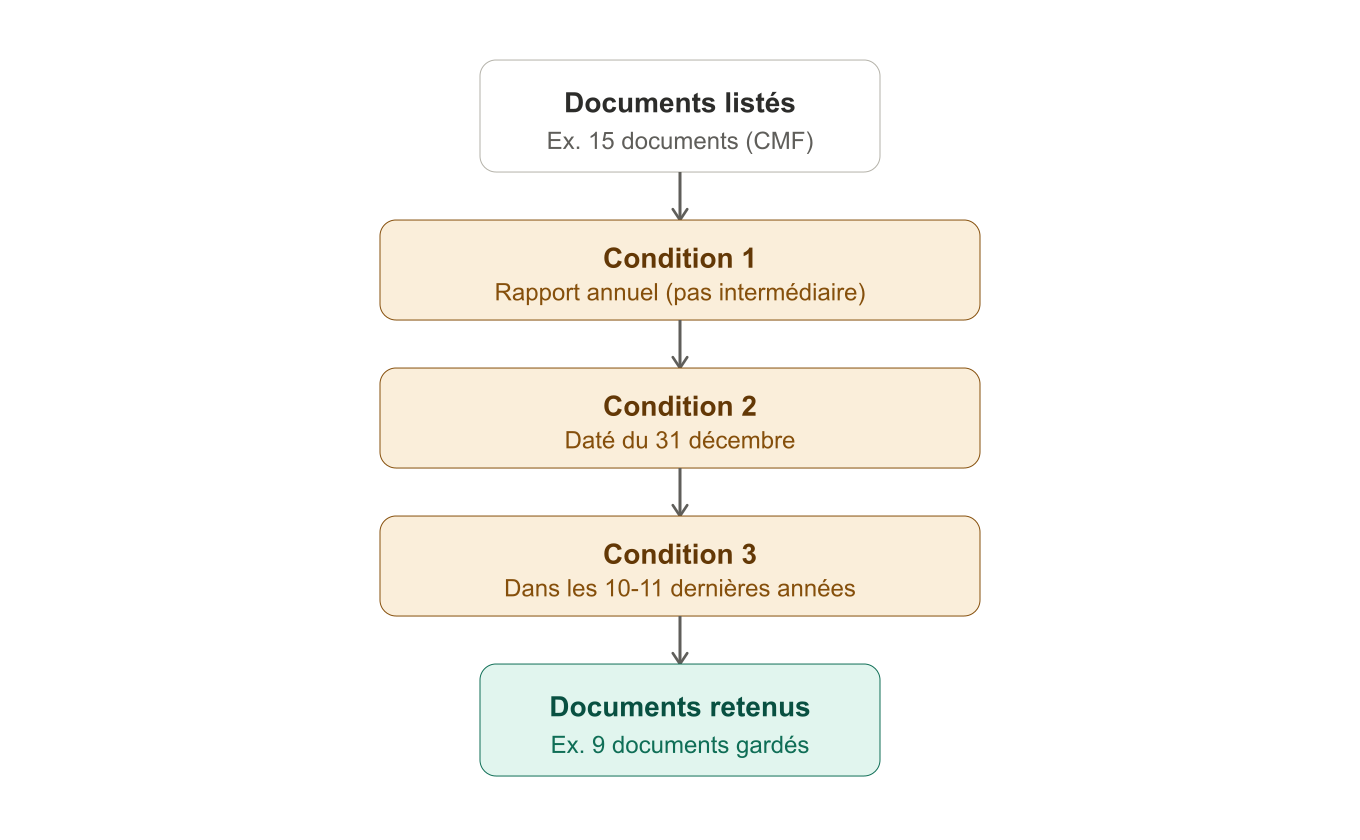
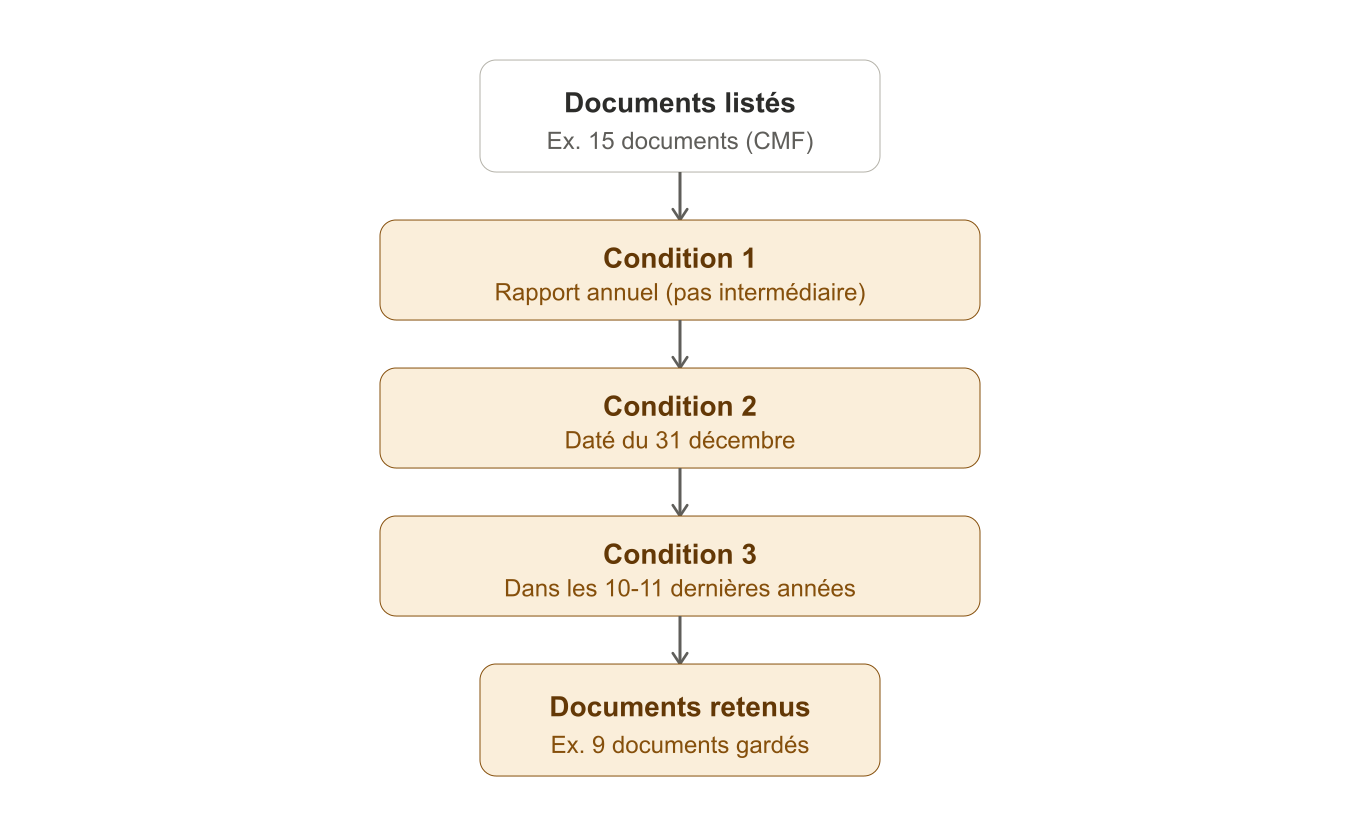
Refonte visuelle des Parties 1-2 : schemas partout, zooms mis en valeur
- Structure des dossiers et flux de donnee (Partie 1) : de la liste/texte
  vers des schemas colores
- Deroule CMF (Partie 2) : de la liste a puces vers un schema vertical
  en 7 etapes, avec les etapes Filtrage et Deduplication mises en couleur
  (ambre / sarcelle) pour annoncer visuellement leur zoom
- Ajoute des bannieres de zoom colorees (meme couleur que l'etape du
  schema principal) au-dessus des schemas de detail Filtrage et
  Deduplication, pour clarifier que ce sont des zooms et non des
  schemas independants empiles
- Nouveau schema pour l'exemple de deduplication (parallele au schema
  de filtrage deja existant)
- "A savoir par source" et "Reconnaissance des societes" : des puces
  noires vers des schemas colores
- Captures de code : ajoute la reference exacte fichier+lignes en
  legende sous chaque image, pour verification directe dans le depot

Changed region(s): [[0.3397, 0.7738, 0.6485, 0.9286]]

diff --git a/docs/fiche_technique_plateforme.md b/docs/fiche_technique_plateforme.md
@@ -4,27 +4,11 @@
 
 ### Structure des dossiers
 
-```
-BarometreAssurance/
-├── api/              serveur backend
-├── frontend/          site web
-├── scraping/           robots de collecte
-├── extraction/           lecture des PDF
-├── database/              accès MySQL
-├── config/                 registre des 24 compagnies
-├── pipelines/               orchestration planifiée
-└── chatbot_portable/         IA, serveur séparé
-```
+![Structure des dossiers du projet](diagrams/folder_structure.png)
 
 ### Flux de la donnée
 
-- Scraping → un PDF est repéré sur un site officiel
-- Base de données → métadonnées notées (société, année, lien)
-- Extraction → les chiffres sont lus dans le PDF
-- Base de données → chiffres stockés
-- Calcul → ratios déduits (rentabilité, sinistralité...)
-- API → backend sert les données en JSON
-- Frontend → affichage en graphiques/tableaux
+![Flux de la donnée, du site source à l'écran](diagrams/data_flow.png)
 
 ### Stack technique — l'essentiel
 
@@ -56,34 +40,42 @@ BarometreAssurance/
 | `requests` + regex | FTUSA, CGA, BVMT, INS, Atlas Magazine, IlBoursa | Pages HTML statiques, plus simple |
 | Fichier local | ENQUETE | Excel fourni, pas un site web |
 
-**Déroulé CMF** (le plus complexe, donc représentatif) :
-- Ouvrir un Chrome invisible
-- Sélectionner la société
-- Lancer la recherche
-- **Filtrer** (voir schéma ci-dessous)
-- Vérifier que le lien PDF répond
-- **Dédupliquer** (voir schéma ci-dessous)
-- Enregistrer les métadonnées seules — jamais le PDF
-- En cas d'échec : relance complète (×3), jamais une reprise partielle
+### Déroulé complet — cas CMF (le plus complexe, donc représentatif)
+
+![Déroulé complet du scraper CMF](diagrams/cmf_workflow.png)
+
+En cas d'échec à n'importe quelle étape : relance complète (×3), jamais une reprise partielle — un plantage en cours de route laisse le navigateur dans un état difficile à récupérer.
+
+**scraping/cmf_portal_scraper.py — lignes 310 à 328 — mécanisme de nouvelle tentative**
 
 ![Code réel du mécanisme de nouvelle tentative](diagrams/code_scraping_retry.png)
 
-**Filtrage** — exemple concret CMF : annuel + daté du 31/12 + dans les 10-11 dernières années.
+---
+
+![Zoom filtrage](diagrams/banner_zoom_filtrage.png)
+
+Parmi tous les documents qu'une source propose, ne garder que ceux qui sont réellement pertinents — le critère exact dépend de la source. Exemple concret CMF :
 
 ![Exemple de filtrage — cas du scraper CMF](diagrams/filtrage_exemple_cmf.png)
 
-**Déduplication** — vérifie en base (société + source + année) avant d'enregistrer.
+---
+
+![Zoom déduplication](diagrams/banner_zoom_dedup.png)
+
+Avant d'enregistrer un document, vérifier qu'il n'existe pas déjà en base (société + source + année) :
+
+![Exemple de déduplication — cas du scraper CMF](diagrams/dedup_exemple_cmf.png)
+
+**scraping/cmf_portal_scraper.py — lignes 281 à 298 — déduplication et enregistrement**
 
 ![Code réel de la déduplication et de l'enregistrement](diagrams/code_scraping_dedup.png)
 
-**À savoir par source** :
-- FTUSA : année lue dans le contenu du PDF, pas dans le nom du fichier
-- BVMT : liste des sociétés cotées découverte dynamiquement
-- CGA / FTUSA réglementaire : circuit séparé (veille), cache 1h
-- Atlas Magazine / IlBoursa : BeautifulSoup en parallèle, alimentent les actualités
+---
+
+### À savoir par source
+
+![À savoir par source](diagrams/a_savoir_par_source.png)
 
 ### Reconnaissance automatique des sociétés
 
-- Problème : "Assurances Maghrebia Vie" → quel code interne ?
-- Solution : score de ressemblance pondéré — un mot rare ("VIE") compte plus qu'un mot générique ("ASSURANCES")
-- Bug corrigé : "El Amana Takaful" confondu avec "AMI" à cause du seul mot commun "EL"
+![Reconnaissance automatique des sociétés](diagrams/reconnaissance_societes.png)
